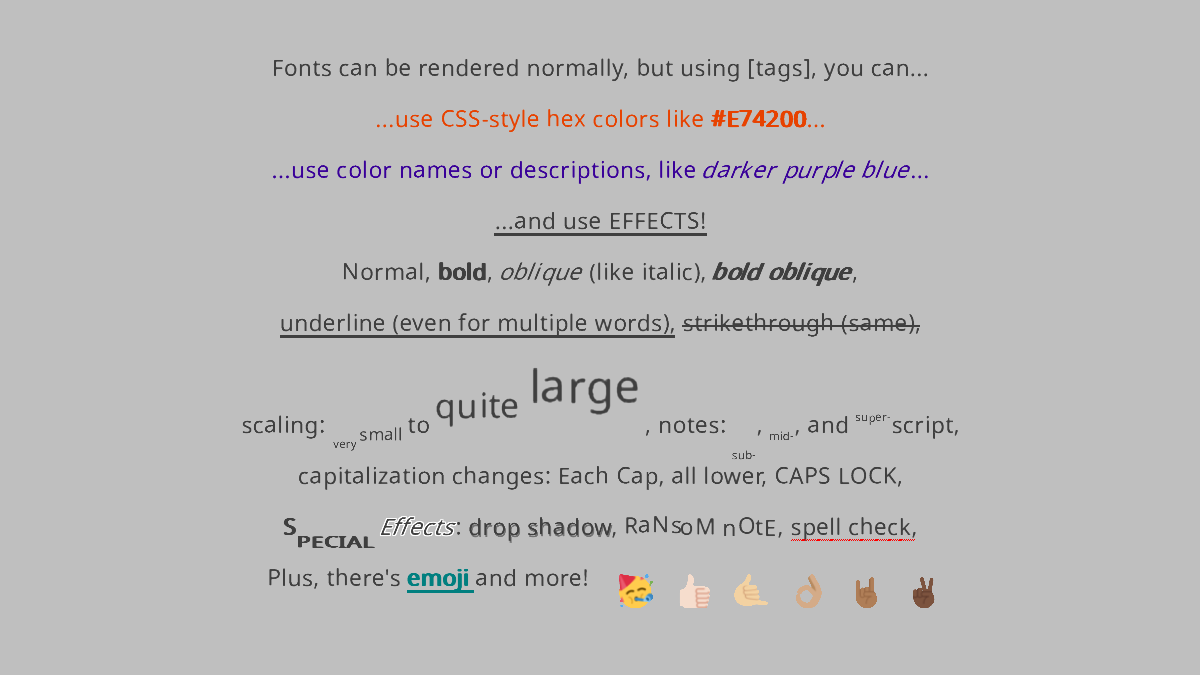
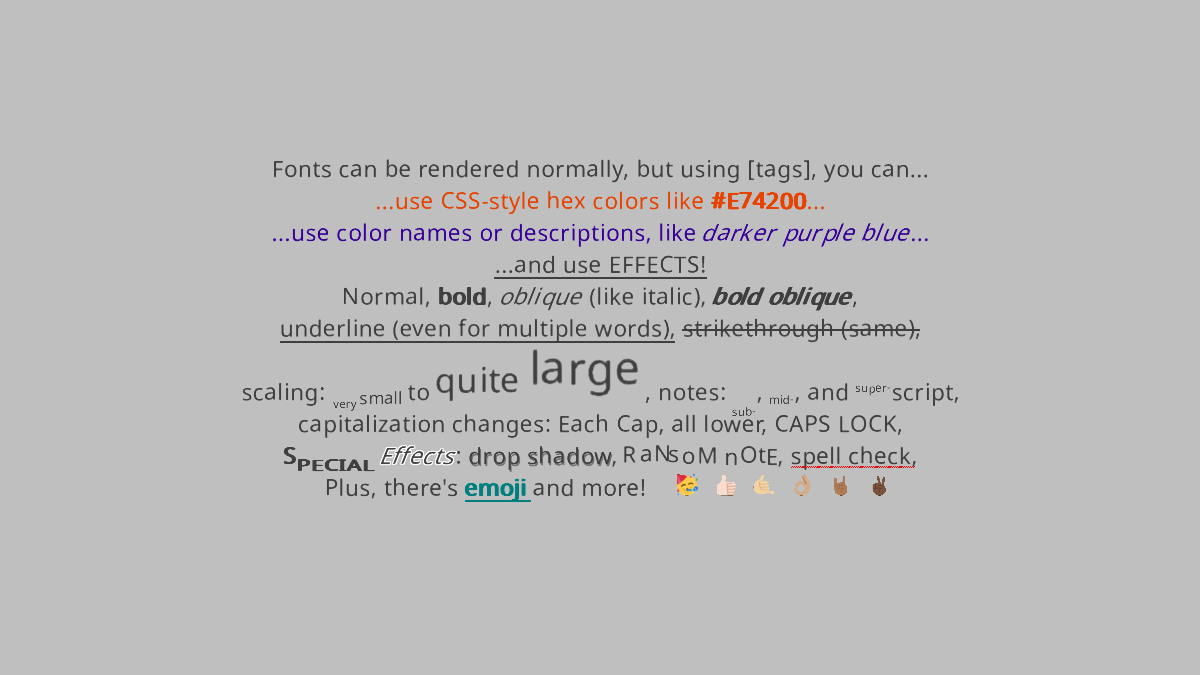
Two SDF fonts had problems. Fixed!

diff --git a/src/main/java/com/github/tommyettinger/textra/KnownFonts.java b/src/main/java/com/github/tommyettinger/textra/KnownFonts.java
@@ -714,9 +714,9 @@ public final class KnownFonts implements LifecycleListener {
             try {
                 instance.goNotoUniversalSDF = new Font(instance.prefix + "GoNotoUniversal-sdf.fnt",
                         instance.prefix + "GoNotoUniversal-sdf.png", SDF, 0f, -16f, 0f, 0f, true)
-                        .scaleTo(43.25f, 34)
-                        .setCrispness(1.8f).setFancyLinePosition(0f, 1.25f)
-                        .setUnderlineMetrics(0.25f, 1f, 0.2f, -0.5f).setStrikethroughMetrics(0.25f, 0.85f, 0.2f, -0.5f).setInlineImageMetrics(0f, -28f, 16f)
+                        .scaleTo(43.25f, 34).adjustLineHeight(0.625f)
+                        .setCrispness(1.8f).setFancyLinePosition(0f, 1.15f)
+                        .setLineMetrics(0.25f, 0.85f, 0.2f, -0.5f).setInlineImageMetrics(0f, -28f, 16f)
                         .setName("Go Noto Universal (SDF)");
             } catch (Exception e) {
                 e.printStackTrace();
@@ -1598,8 +1598,8 @@ public final class KnownFonts implements LifecycleListener {
             try {
                 instance.tangerineSDF = new Font(instance.prefix + "Tangerine-sdf.fnt",
                         instance.prefix + "Tangerine-sdf.png", SDF, 0f, 28f, 0f, 0, false).setFancyLinePosition(0, 0.2f)
-                        .setLineMetrics(0.0625f, 0f, 0f, 0f).setInlineImageMetrics(-24f, 0f, 8f)
-                        .scaleTo(48, 32).setCrispness(0.375f).setName("Tangerine (SDF)");
+                        .setLineMetrics(-0.5f, 0f, 0f, 0f).setInlineImageMetrics(0f, 0f, 8f)
+                        .scaleTo(45, 30).setCrispness(0.375f).setName("Tangerine (SDF)");
             } catch (Exception e) {
                 e.printStackTrace();
             }
